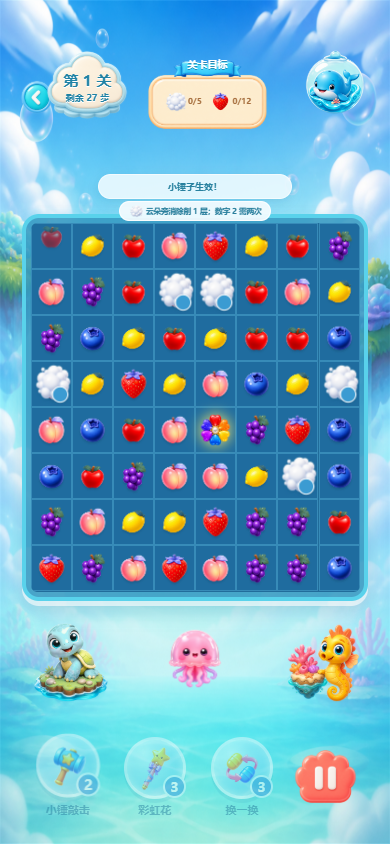
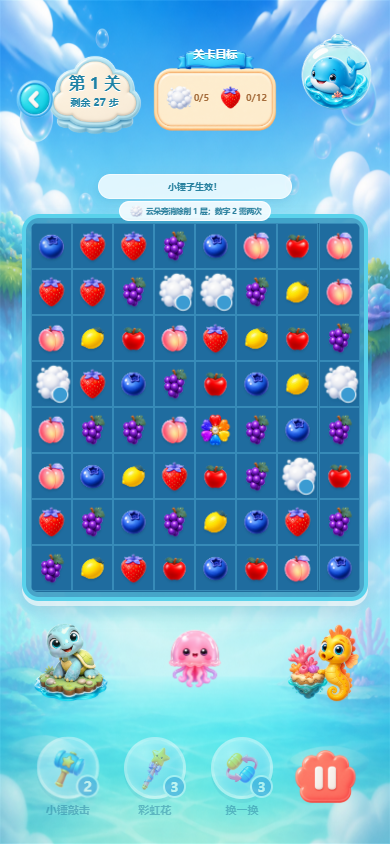
Polish special matches and game feedback

diff --git a/src/prototype.css b/src/prototype.css
@@ -2,20 +2,24 @@
 .native-scroll { display: grid; width: 100%; min-height: 100dvh; place-items: center; overflow: hidden; background: #dff9ff; }
 .native-scroll > main { flex: none; }
 .garden-game { position: relative; width: min(100vw, 46.15dvh, 520px); height: min(100dvh, 922px); min-height: 0; aspect-ratio: 852 / 1846; overflow: hidden; isolation: isolate; font-family: "Microsoft YaHei", Roboto, sans-serif; color: #267e9e; background: #dff9ff; user-select: none; }
-.scene-background { position: absolute; inset: 0; width: 100%; height: 100%; object-fit: fill; pointer-events: none; }.game-hud { position: absolute; z-index: 12; top: 4%; left: 4%; right: 4%; height: 16%; pointer-events: auto; }.hud-back { position: absolute; left: 0; top: 32%; width: 42px; padding: 0; border: 0; background: transparent; }.hud-back img { display: block; width: 100%; }.hud-level-card { position: absolute; left: 8%; top: 6%; width: 24%; height: auto; }.hud-level-copy { position: absolute; left: 10%; top: 29%; display: grid; justify-items: center; gap: 3px; width: 20%; color: #1f82a5; text-shadow: 0 1px #fff; }.hud-level-copy strong { font: 900 15px/1 "Arial Rounded MT Bold", "Microsoft YaHei"; }.hud-level-copy span { font-size: 9px; font-weight: 800; }.hud-mission { position: absolute; left: 34%; top: 12%; width: 39%; height: 70%; }.hud-mission-card { position: absolute; inset: 11% 0 0; width: 100%; height: 89%; }.hud-mission-ribbon { position: absolute; top: 0; left: 20%; width: 60%; }.hud-mission b { position: absolute; top: 7%; left: 0; right: 0; text-align: center; color: #fff; font-size: 10px; text-shadow: 0 1px rgba(24,114,155,.7); }.live-targets { position: absolute; inset: 42% 9% auto; display: flex; justify-content: center; gap: 7px; color: #a56d3c; font-size: 8px; font-weight: 900; }.live-targets span { display: flex; align-items: center; gap: 1px; }.live-targets img { width: 23px; height: 23px; object-fit: contain; }.hud-whale { position: absolute; right: 0; top: 7%; width: 22%; }
+.scene-background { position: absolute; inset: 0; width: 100%; height: 100%; object-fit: fill; pointer-events: none; }.game-hud { position: absolute; z-index: 12; top: 3.1%; left: 2.5%; right: 2.5%; height: 17%; pointer-events: auto; }.hud-back { position: absolute; left: 0; top: 34%; z-index: 5; width: 50px; padding: 0; border: 0; background: transparent; transition: transform .14s ease; }.hud-back:active { transform: scale(.92); }.hud-back img { display: block; width: 100%; }.hud-level-card { position: absolute; left: 9.5%; top: 13%; width: 27%; height: auto; }.hud-level-copy { position: absolute; left: 11.4%; top: 34%; display: grid; justify-items: center; gap: 4px; width: 23%; color: #1f82a5; text-shadow: 0 1px #fff; }.hud-level-copy strong { font: 900 16px/1 "Arial Rounded MT Bold", "Microsoft YaHei"; }.hud-level-copy span { font-size: 10px; font-weight: 800; }.hud-mission { position: absolute; left: 36%; top: 9%; width: 39%; height: 76%; }.hud-mission-card { position: absolute; inset: 11% 0 0; width: 100%; height: 89%; }.hud-mission-ribbon { position: absolute; top: 0; left: 17%; width: 66%; }.hud-mission b { position: absolute; top: 6%; left: 0; right: 0; text-align: center; color: #fff; font-size: 11px; text-shadow: 0 1px rgba(24,114,155,.7); }.live-targets { position: absolute; inset: 40% 6% auto; display: flex; justify-content: center; gap: 7px; color: #a56d3c; font-size: 9px; font-weight: 900; }.live-targets span { display: flex; align-items: center; gap: 1px; white-space: nowrap; }.live-targets img { width: 29px; height: 29px; object-fit: contain; }.hud-whale { position: absolute; right: -1%; top: 1%; width: 26%; animation: hud-whale-float 3.4s ease-in-out infinite; }
 .game-guidance { position: absolute; z-index: 18; top: 20.65%; left: 10%; right: 10%; display: grid; justify-items: center; gap: 2px; pointer-events: none; }.game-message { position: relative; margin: 0; padding: 5px 12px; min-width: 62%; min-height: 22px; border: 1px solid rgba(255,255,255,.72); border-radius: 999px; background: rgba(241,252,255,.91); box-shadow: 0 3px 10px rgba(21,111,153,.16); text-align: center; font-size: 9px; font-weight: 900; color: #237d9b; opacity: .96; transition: opacity .16s ease, transform .2s ease; }.garden-game[data-phase="idle"] .game-message { opacity: .9; }.booster-hint { position: absolute; z-index: 24; left: 10%; right: 10%; bottom: 14%; padding: 8px 10px; border: 2px solid rgba(255,255,255,.82); border-radius: 999px; background: rgba(43,148,189,.94); color: #fff; text-align: center; font-size: 10px; font-weight: 900; box-shadow: 0 4px 10px rgba(27,112,150,.25); animation: hint-pop .18s ease-out; pointer-events: none; }
 .foam-tip { position: relative; display: flex; align-items: center; justify-content: center; gap: 3px; padding: 2px 9px; border: 1px solid rgba(255,255,255,.78); border-radius: 999px; background: rgba(244,252,255,.93); color: #287e9c; font-size: 7.5px; font-weight: 900; text-align: center; }.foam-tip img { width: 14px; height: 14px; object-fit: contain; }
 .chain-badge { position: absolute; z-index: 26; top: 44%; left: 50%; transform: translate(-50%, -50%); padding: 10px 18px; border: 3px solid rgba(255,255,255,.92); border-radius: 999px; background: rgba(255,179,67,.95); box-shadow: 0 7px 18px rgba(89,75,19,.28); color: #fff; font: 900 19px/1 "Arial Rounded MT Bold", "Microsoft YaHei"; text-shadow: 0 2px 2px rgba(159,88,18,.28); animation: chain-pop .5s cubic-bezier(.16,.84,.2,1) both; pointer-events: none; }
 .board-frame { position: absolute; z-index: 3; left: 5.5%; top: 25.4%; width: 89%; height: 45.8%; padding: 5px; border: 4px solid #59d2eb; border-radius: 17px; background: rgba(51,153,193,.86); box-shadow: 0 5px 0 rgba(255,255,255,.6), 0 11px 16px rgba(33,126,163,.25); overflow: hidden; }
 .game-board { display: grid; width: 100%; height: 100%; grid-template-columns: repeat(8, 1fr); grid-template-rows: repeat(8, 1fr); overflow: hidden; border-radius: 2%; background: #216d9b; touch-action: none; contain: layout paint; }
 .game-board.is-shaking { animation: board-shake .26s ease both; }
-.tile { position: relative; min-width: 0; min-height: 0; padding: 1px; border: 1px solid rgba(104,200,232,.34); background: rgba(31,108,159,.98); transform: translate3d(var(--drag-x, 0), var(--drag-y, 0), 0); transition: transform .18s cubic-bezier(.2,.85,.2,1), opacity .16s ease, filter .15s ease; will-change: transform; }.tile > img { display: block; width: 100%; height: 100%; object-fit: contain; filter: drop-shadow(0 2px 1px rgba(11,60,100,.26)); animation: tile-in .3s cubic-bezier(.2,.8,.2,1); pointer-events: none; }.tile.is-selected { z-index: 5; outline: 3px solid #fff4a8; outline-offset: -3px; transform: scale(1.06); }.tile.is-dragging { z-index: 7; outline: 3px solid #fff4a8; outline-offset: -3px; transition: none; filter: brightness(1.08); }.tile.is-selected > img, .tile.is-dragging > img { filter: drop-shadow(0 0 6px rgba(255,234,108,.9)); }.tile.is-clearing { z-index: 9; pointer-events: none; background: radial-gradient(circle, #fff8a9 0 14%, #ffcb5c 28%, transparent 58%); animation: clear-flash .23s ease-out both; }.tile.is-clearing > img { animation: fruit-pop .23s cubic-bezier(.1,.85,.2,1) both; }.tile:disabled { cursor: wait; }.garden-game[data-phase="fall"] .tile > img { animation: tile-fall .28s cubic-bezier(.1,.72,.22,1); }.garden-game[data-phase="shuffle"] .tile { animation: tile-shuffle .48s cubic-bezier(.2,.78,.2,1); animation-delay: calc((var(--tile-row) + var(--tile-col)) * 10ms); }.cloud-layer { position: absolute; z-index: 4; inset: 2%; display: grid; place-items: center; pointer-events: none; animation: cloud-drift 2.6s ease-in-out infinite; }.cloud-layer img { width: 100% !important; height: 100% !important; filter: drop-shadow(0 2px 2px rgba(13,86,138,.34)) !important; animation: none !important; }.cloud-layer em { position: absolute; right: 6%; bottom: 4%; display: grid; width: 16px; height: 16px; place-items: center; border: 1px solid #fff; border-radius: 50%; background: #3b9bd2; color: #fff; font: 900 11px/1 Arial; font-style: normal; box-shadow: 0 1px 3px rgba(9,70,110,.35); }.cloud-layer-2 { filter: brightness(.91) saturate(.92); }.cloud-layer-2::after { position: absolute; top: 17%; left: 13%; width: 42%; height: 34%; content: ""; border-radius: 50%; background: rgba(255,255,255,.28); }.special-flower > img { filter: drop-shadow(0 0 7px rgba(255,238,107,.96)); }
+.tile { position: relative; min-width: 0; min-height: 0; padding: 1px; border: 1px solid rgba(104,200,232,.34); background: rgba(31,108,159,.98); transform: translate3d(calc(var(--drag-x, 0px) + var(--swap-x, 0%)), calc(var(--drag-y, 0px) + var(--swap-y, 0%)), 0); transition: transform .19s cubic-bezier(.22,.82,.22,1), opacity .18s ease, filter .15s ease; will-change: transform, opacity; }.tile > img.fruit-art { display: block; width: 100%; height: 100%; object-fit: contain; filter: drop-shadow(0 2px 1px rgba(11,60,100,.26)); animation: tile-in .3s cubic-bezier(.2,.8,.2,1); pointer-events: none; }.tile.is-swapping { z-index: 8; filter: brightness(1.08) saturate(1.08); }.tile.is-selected { z-index: 5; outline: 3px solid #fff4a8; outline-offset: -3px; transform: scale(1.06); }.tile.is-dragging { z-index: 7; outline: 3px solid #fff4a8; outline-offset: -3px; transition: none; filter: brightness(1.08); }.tile.is-selected > img, .tile.is-dragging > img { filter: drop-shadow(0 0 6px rgba(255,234,108,.9)); }.tile.is-clearing { z-index: 9; pointer-events: none; animation: clear-flash .34s ease-out both; }.tile.is-clearing > img.fruit-art { animation: fruit-pop .34s cubic-bezier(.15,.82,.22,1) both; }.tile:disabled { cursor: wait; }.garden-game[data-phase="fall"] .tile > img.fruit-art { animation: tile-fall .31s cubic-bezier(.12,.72,.22,1); animation-delay: calc((7 - var(--tile-row)) * 8ms); }.garden-game[data-phase="shuffle"] .tile { animation: tile-shuffle .48s cubic-bezier(.2,.78,.2,1); animation-delay: calc((var(--tile-row) + var(--tile-col)) * 10ms); }.special-overlay { position: absolute; z-index: 2; inset: 2%; width: 96%; height: 96%; object-fit: contain; pointer-events: none; filter: drop-shadow(0 0 4px rgba(255,236,127,.9)); animation: special-idle 1.6s ease-in-out infinite; }.special-overlay-burst { inset: -2%; width: 104%; height: 104%; }.tile.is-special-creating .special-overlay, .tile.is-special-creating > img.fruit-art { animation: special-create .5s cubic-bezier(.18,.84,.18,1) both; }.clear-fragments { position: absolute; z-index: 7; inset: 0; pointer-events: none; }.clear-fragments img { position: absolute; left: 32%; top: 32%; width: 36%; height: 36%; object-fit: contain; animation: clear-fragment .38s cubic-bezier(.2,.72,.22,1) both; }.clear-fragments img:nth-child(1) { --fx: -72%; --fy: -68%; --fr: -24deg; }.clear-fragments img:nth-child(2) { --fx: 78%; --fy: -58%; --fr: 20deg; }.clear-fragments img:nth-child(3) { --fx: -68%; --fy: 75%; --fr: 18deg; }.clear-fragments img:nth-child(4) { --fx: 74%; --fy: 70%; --fr: -20deg; }.cloud-layer { position: absolute; z-index: 4; inset: 2%; display: grid; place-items: center; pointer-events: none; animation: cloud-drift 2.6s ease-in-out infinite; }.cloud-layer img { width: 100% !important; height: 100% !important; filter: drop-shadow(0 2px 2px rgba(13,86,138,.34)) !important; animation: none !important; }.cloud-layer em { position: absolute; right: 6%; bottom: 4%; display: grid; width: 16px; height: 16px; place-items: center; border: 1px solid #fff; border-radius: 50%; background: #3b9bd2; color: #fff; font: 900 11px/1 Arial; font-style: normal; box-shadow: 0 1px 3px rgba(9,70,110,.35); }.cloud-layer-2 { filter: brightness(.91) saturate(.92); }.cloud-layer-2::after { position: absolute; top: 17%; left: 13%; width: 42%; height: 34%; content: ""; border-radius: 50%; background: rgba(255,255,255,.28); }.special-flower > img { filter: drop-shadow(0 0 7px rgba(255,238,107,.96)); animation: special-idle 1.5s ease-in-out infinite; }
 .ocean-friends { position: absolute; z-index: 2; top: 72.5%; left: 5%; right: 5%; height: 12%; pointer-events: none; }.ocean-friends img { position: absolute; object-fit: contain; }.friend-turtle { left: 1%; bottom: 4%; width: 27%; }.friend-jelly { left: 39%; top: 8%; width: 22%; }.friend-seahorse { right: 1%; bottom: 5%; width: 25%; }.booster-dock { position: absolute; z-index: 5; left: 7%; right: 7%; bottom: 2.5%; height: 11%; display: grid; grid-template-columns: repeat(3, 1fr) 22%; gap: 2%; }.booster { padding: 0; border: 0; background: transparent; color: #277e9e; text-align: center; font-weight: 900; transition: transform .12s ease, opacity .12s ease; }.booster:active:not(:disabled) { transform: scale(.94); }.booster:disabled { opacity: .48; cursor: not-allowed; }.booster > span { position: relative; display: grid; width: 62px; height: 62px; margin: auto; place-items: center; border: 3px solid rgba(255,255,255,.86); border-radius: 50%; background: radial-gradient(circle at 30% 23%, #e9ffff, #70d5f1 62%, #42b9db); box-shadow: 0 4px 0 rgba(35,137,177,.23), inset 0 0 10px #ecffff; transition: transform .2s cubic-bezier(.2,.85,.2,1); }.booster.is-active > span { outline: 3px solid #fff5a3; transform: translateY(-4px) scale(1.05); }.booster img { width: 53px; height: 53px; object-fit: contain; }.booster b { position: absolute; right: -3px; bottom: -2px; display: grid; width: 23px; height: 23px; place-items: center; border: 2px solid #d9f6ff; border-radius: 50%; background: #3094dd; color: #fff; font-size: 13px; }.booster small { display: block; margin-top: 5px; font: 800 11px/1 "Microsoft YaHei"; white-space: nowrap; }.pause-button { display: grid; place-items: center; padding: 0; border: 0; background: transparent; transition: transform .12s ease; }.pause-button:active { transform: scale(.94); }.pause-button img { width: 75px; max-width: 100%; }
 .modal-backdrop { position: absolute; z-index: 30; inset: 0; display: grid; place-items: center; padding: 8%; background: rgba(17,104,137,.46); backdrop-filter: blur(3px); }.modal-card, .result-card { width: min(300px, 92%); padding: 23px 20px; border: 4px solid rgba(255,255,255,.86); border-radius: 28px; background: #fff9e6; box-shadow: 0 14px 35px rgba(11,86,119,.34); text-align: center; color: #267e9e; }.modal-card h2, .result-card h2 { margin: 0 0 9px; font: 700 26px "Arial Rounded MT Bold", "Microsoft YaHei"; }.modal-card p, .result-card p { font-size: 14px; font-weight: 700; }.modal-card button, .result-card button { margin: 5px; padding: 9px 13px; border: 0; border-radius: 14px; background: #5ac8df; color: white; font-weight: 900; box-shadow: inset 0 -3px rgba(18,132,169,.18); }.modal-card .modal-close { display: block; margin: 15px auto 0; background: #f99a75; }.level-map { display: grid; grid-template-columns: repeat(5, 1fr); gap: 6px; margin-top: 14px; }.level-map button { margin: 0; padding: 8px 1px; border-radius: 12px; font-size: 12px; }.level-map button:disabled { opacity: .38; }.level-map button.current { outline: 2px solid #ffe576; background: #f99a75; }.result-bubble { display: inline-block; margin-top: -49px; padding: 10px 17px; border: 3px solid #fff; border-radius: 999px; background: #8eddf0; color: white; font-weight: 900; }.result-stars { color: #f8bd4e; font-size: 30px !important; letter-spacing: 4px; }
 .level-map-screen { position: relative; width: min(100vw, 46.15dvh, 520px); height: min(100dvh, 922px); min-height: 0; aspect-ratio: 852 / 1846; overflow: hidden; background: linear-gradient(#91e4f5 0%, #3dcae9 28%, #1cb9de 100%); font-family: "Microsoft YaHei", Roboto, sans-serif; isolation: isolate; }.level-map-screen::before, .level-map-screen::after { position: absolute; z-index: 0; content: ""; border-radius: 50%; filter: blur(4px); opacity: .72; pointer-events: none; }.level-map-screen::before { width: 76%; height: 12%; left: -23%; top: 25%; background: #e8fbff; }.level-map-screen::after { width: 90%; height: 15%; right: -30%; bottom: 5%; background: #dffaff; }.map-scenery { position: absolute; z-index: 1; inset: 0; overflow: hidden; pointer-events: none; }.map-scenery img { position: absolute; object-fit: contain; }.map-path-art { z-index: 1; left: 26%; top: 23%; width: 49%; height: 67%; opacity: .98; }.map-orchard { z-index: 2; width: 45%; }.map-orchard-apple-a { left: -18%; top: 27%; }.map-orchard-blueberry-a { right: -18%; top: 48%; }.map-orchard-apple-b { right: -20%; bottom: 7%; }.map-orchard-blueberry-b { left: -18%; bottom: 6%; }.map-whale { z-index: 2; top: 3%; right: -1%; width: 34%; animation: map-bob 3.8s ease-in-out infinite; }.map-turtle { z-index: 2; bottom: 12%; left: 7%; width: 25%; animation: map-bob 4.4s ease-in-out infinite reverse; }.map-seahorse { z-index: 2; right: 4%; bottom: 10%; width: 23%; animation: map-bob 3.5s ease-in-out .7s infinite; }.map-flower { z-index: 3; width: 10%; animation: map-twinkle 2.4s ease-in-out infinite; }.map-flower-a { left: 12%; top: 57%; }.map-flower-b { right: 11%; top: 33%; animation-delay: .8s; }.map-topbar { position: absolute; z-index: 8; inset: 5% 5% auto; display: flex; justify-content: space-between; align-items: center; color: #fff; text-shadow: 0 2px 4px rgba(17,118,160,.5); }.map-topbar div { display: grid; gap: 3px; }.map-topbar b { font: 900 24px/1 "Arial Rounded MT Bold", "Microsoft YaHei"; }.map-topbar small { font-size: 10px; font-weight: 700; }.map-topbar button, .map-actions button, .map-footer button { border: 3px solid rgba(255,255,255,.82); color: #fff; font-weight: 900; box-shadow: inset 0 -4px rgba(25,117,160,.22), 0 4px 0 rgba(25,100,136,.2); }.map-topbar button { padding: 8px 10px; border-radius: 16px; background: #f39c77; font-size: 11px; }.map-actions { position: absolute; z-index: 8; top: 12.2%; left: 5%; right: 5%; display: grid; grid-template-columns: repeat(3, 1fr); gap: 7px; }.map-actions button { min-height: 38px; padding: 4px; border-radius: 13px; background: rgba(91,199,222,.94); font-size: 9px; }.map-actions span, .map-actions b { display: block; }.map-actions b { color: #ffea7a; font-size: 13px; }.map-levels { position: absolute; z-index: 6; inset: 24% 8% 11%; }.map-level { position: absolute; display: grid; width: 13%; aspect-ratio: 1; place-items: center; padding: 0; border: 3px solid rgba(255,255,255,.86); border-radius: 50%; background: #a8cad7; color: #fff; font: 900 16px/1 "Arial Rounded MT Bold"; box-shadow: inset 0 -6px rgba(42,116,148,.24), 0 4px 0 rgba(38,110,141,.26); transition: transform .15s ease; }.map-level.unlocked { background: #f9ae50; }.map-level.finished { background: #81d1e8; }.map-level:not(:disabled):hover { transform: scale(1.09); }.map-level i { position: absolute; bottom: -9px; right: -5px; display: grid; width: 20px; height: 20px; place-items: center; border: 2px solid white; border-radius: 50%; background: #55a9d3; color: #fff2a6; font-size: 10px; font-style: normal; }.map-level i svg { width: 12px; height: 12px; fill: currentColor; stroke: currentColor; stroke-width: 2; }.map-level:nth-child(1) { left: 44%; top: 73%; }.map-level:nth-child(2) { left: 29%; top: 68%; }.map-level:nth-child(3) { left: 50%; top: 64%; }.map-level:nth-child(4) { left: 61%; top: 58%; }.map-level:nth-child(5) { left: 44%; top: 54%; }.map-level:nth-child(6) { left: 28%; top: 48%; }.map-level:nth-child(7) { left: 43%; top: 44%; }.map-level:nth-child(8) { left: 61%; top: 40%; }.map-level:nth-child(9) { left: 47%; top: 35%; }.map-level:nth-child(10) { left: 33%; top: 31%; }.map-level:nth-child(11) { left: 47%; top: 27%; }.map-level:nth-child(12) { left: 62%; top: 23%; }.map-level:nth-child(13) { left: 47%; top: 19%; }.map-level:nth-child(14) { left: 35%; top: 15%; }.map-level:nth-child(15) { left: 48%; top: 11%; }.map-level:nth-child(16) { left: 62%; top: 7%; }.map-level:nth-child(17) { left: 46%; top: 3%; }.map-level:nth-child(18) { left: 31%; top: -1%; }.map-level:nth-child(19) { left: 44%; top: -5%; }.map-level:nth-child(20) { left: 29%; top: -10%; }.map-notice { position: absolute; z-index: 12; top: 19%; left: 12%; right: 12%; margin: 0; padding: 7px 10px; border: 2px solid rgba(255,255,255,.85); border-radius: 999px; background: rgba(35,137,177,.88); box-shadow: 0 4px 10px rgba(27,112,150,.25); color: #fff; text-align: center; font-size: 10px; font-weight: 900; animation: hint-pop .18s ease-out; }.map-footer { position: absolute; z-index: 10; right: 5%; bottom: 3.2%; left: 5%; display: flex; align-items: center; justify-content: space-between; padding: 8px 9px 8px 13px; border: 2px solid rgba(255,255,255,.75); border-radius: 20px; background: rgba(255,250,232,.9); color: #257b9b; font-size: 10px; font-weight: 900; }.map-footer button { padding: 8px 12px; border-radius: 13px; background: #f38f72; font-size: 11px; }
 @keyframes tile-in { from { transform: translateY(-38%) scale(.85); opacity: .25; } 58% { transform: translateY(4%) scale(1.04); opacity: 1; } to { transform: translateY(0) scale(1); opacity: 1; } }
-@keyframes fruit-pop { 0% { transform: scale(1); opacity: 1; } 45% { transform: scale(1.25) rotate(7deg); opacity: 1; } 100% { transform: scale(.12) rotate(-12deg); opacity: 0; } }
-@keyframes clear-flash { 0% { box-shadow: inset 0 0 0 rgba(255,255,255,0); } 45% { box-shadow: inset 0 0 22px 11px rgba(255,248,167,.9); } 100% { box-shadow: inset 0 0 0 rgba(255,255,255,0); } }
+@keyframes fruit-pop { 0% { transform: scale(1); opacity: 1; filter: brightness(1); } 18% { transform: scale(.88,.78); opacity: 1; } 52% { transform: scale(1.28,1.2) rotate(6deg); opacity: 1; filter: brightness(1.35); } 100% { transform: scale(.18) rotate(-16deg); opacity: 0; filter: brightness(1.6); } }
+@keyframes clear-flash { 0% { filter: brightness(1); } 45% { filter: brightness(1.5) saturate(1.25); } 100% { filter: brightness(1); } }
+@keyframes clear-fragment { 0% { transform: translate(0,0) scale(.9); opacity: .9; } 100% { transform: translate(var(--fx),var(--fy)) rotate(var(--fr)) scale(.15); opacity: 0; } }
+@keyframes special-create { 0% { transform: scale(.25) rotate(-22deg); opacity: 0; } 55% { transform: scale(1.28) rotate(5deg); opacity: 1; } 76% { transform: scale(.92) rotate(-2deg); } 100% { transform: scale(1) rotate(0); opacity: 1; } }
+@keyframes special-idle { 0%,100% { transform: scale(.96); filter: brightness(1) drop-shadow(0 0 3px rgba(255,236,127,.7)); } 50% { transform: scale(1.06); filter: brightness(1.18) drop-shadow(0 0 7px rgba(255,236,127,.98)); } }
+@keyframes hud-whale-float { 0%,100% { transform: translateY(0) rotate(-1deg); } 50% { transform: translateY(-4px) rotate(1deg); } }
 @keyframes hint-pop { from { opacity: 0; transform: translateY(8px) scale(.96); } to { opacity: 1; transform: translateY(0) scale(1); } }
 @keyframes map-bob { 0%, 100% { transform: translateY(0) rotate(-1deg); } 50% { transform: translateY(-8px) rotate(1deg); } }
 @keyframes map-twinkle { 0%, 100% { transform: scale(.92) rotate(-8deg); filter: brightness(1); } 50% { transform: scale(1.09) rotate(8deg); filter: brightness(1.18); } }

diff --git a/src/Prototype.tsx b/src/Prototype.tsx
@@ -11,6 +11,7 @@ import {
   isAdjacent,
   key,
   makeTile,
+  planMatches,
   reshuffleBoard,
   samePos,
   swapTiles,
@@ -21,6 +22,8 @@ import {
 } from "./gameEngine";
 
 type SavedGame = { unlocked: number; boosters: { hammer: number; flower: number; swap: number }; best: Record<number, number> };
+type SwapMotion = { a: Pos; b: Pos; returning?: boolean };
+type SpecialMoment = { key: string; special: Special } | null;
 
 const FRUIT_LABEL: Record<Fruit, string> = {
   blueberry: "蓝莓", strawberry: "草莓", peach: "蜜桃", grape: "葡萄", lemon: "柠檬", apple: "苹果",
@@ -60,13 +63,18 @@ function cloudNeighbors(board: Tile[][], target: Set<string>) {
   return hits;
 }
 
-function addSpecialEffect(board: Tile[][], pos: Pos, target: Set<string>) {
+function addSpecialEffect(board: Tile[][], pos: Pos, target: Set<string>, colorFruit?: Fruit) {
   const tile = board[pos.row][pos.col];
   if (!tile.special) return;
   if (tile.special === "row") for (let col = 0; col < BOARD_SIZE; col += 1) target.add(key({ row: pos.row, col }));
   if (tile.special === "column") for (let row = 0; row < BOARD_SIZE; row += 1) target.add(key({ row, col: pos.col }));
+  if (tile.special === "burst") {
+    for (let row = pos.row - 1; row <= pos.row + 1; row += 1) for (let col = pos.col - 1; col <= pos.col + 1; col += 1) {
+      if (inside({ row, col })) target.add(key({ row, col }));
+    }
+  }
   if (tile.special === "flower") {
-    const chosen = tile.fruit;
+    const chosen = colorFruit ?? tile.fruit;
     for (let row = 0; row < BOARD_SIZE; row += 1) for (let col = 0; col < BOARD_SIZE; col += 1) {
       if (board[row][col].fruit === chosen) target.add(key({ row, col }));
     }
@@ -110,6 +118,8 @@ export default function Prototype() {
   const [dragging, setDragging] = useState<Pos | null>(null);
   const [dragVector, setDragVector] = useState({ x: 0, y: 0 });
   const [clearing, setClearing] = useState<Set<string>>(() => new Set());
+  const [swapMotion, setSwapMotion] = useState<SwapMotion | null>(null);
+  const [specialMoment, setSpecialMoment] = useState<SpecialMoment>(null);
   const [phase, setPhase] = useState<"idle" | "swap" | "clear" | "fall" | "shuffle">("idle");
   const [chainDisplay, setChainDisplay] = useState(0);
   const [shakeBoard, setShakeBoard] = useState(false);
@@ -121,7 +131,7 @@ export default function Prototype() {
   const resetLevel = useCallback((nextIndex = levelIndex) => {
     const next = LEVELS[nextIndex];
     setBoard(createPlayableBoard(next.targets[1].count, next.id)); setMoves(next.moves); setScore(0); setSelected(null); setBusy(false); setBooster(null);
-    setProgress({ strawberry: 0, foam: 0 }); setMessage("滑动相邻水果，完成三连消除"); setShowResult(null); setPhase("idle"); setChainDisplay(0);
+    setProgress({ strawberry: 0, foam: 0 }); setMessage("滑动相邻水果，完成三连消除"); setShowResult(null); setPhase("idle"); setChainDisplay(0); setSwapMotion(null); setSpecialMoment(null);
   }, [levelIndex]);
 
   const openLevel = (index: number) => {
@@ -161,45 +171,41 @@ export default function Prototype() {
     let totalScore = 0;
     let gainedStrawberry = 0; let gainedFoam = 0;
     while (true) {
-      const groups = findMatches(next);
-      if (!groups.length) break;
+      const plan = planMatches(next, preferred);
+      if (!plan.clear.size) break;
       chain += 1;
       setChainDisplay(chain);
-      const toClear = new Set<string>();
-      const specials: { pos: Pos; special: Special }[] = [];
-      groups.forEach((group) => {
-        group.forEach((pos) => toClear.add(key(pos)));
-        const origin = preferred && group.some((pos) => samePos(preferred ?? null, pos)) ? preferred : group[Math.floor(group.length / 2)];
-        if (group.length >= 5) specials.push({ pos: origin, special: "flower" });
-        else if (group.length === 4) specials.push({ pos: origin, special: group[0].row === group[1].row ? "row" : "column" });
-      });
+      const toClear = new Set<string>(plan.clear);
       [...toClear].forEach((value) => { const [row, col] = value.split(":").map(Number); addSpecialEffect(next, { row, col }, toClear); });
       cloudNeighbors(next, toClear).forEach((value) => toClear.add(value));
-      const keep = new Map(specials.map((item) => [key(item.pos), item.special]));
+      const keep = new Map(plan.spawns.map((item) => [key(item.pos), item.special]));
       const cloudDamaged = new Set<string>();
       toClear.forEach((value) => {
         const [row, col] = value.split(":").map(Number); const current = next[row][col];
-        if (keep.has(value)) { next[row][col] = { ...current, special: keep.get(value) }; return; }
         if (current.foamLayers) {
           gainedFoam += 1;
           next[row][col] = current.foamLayers > 1 ? { ...current, foamLayers: current.foamLayers - 1 } : { ...current, foamLayers: undefined };
           cloudDamaged.add(value);
+          keep.delete(value);
           return;
         }
+        if (keep.has(value)) { next[row][col] = { ...current, special: keep.get(value) }; return; }
         if (current.fruit === "strawberry") gainedStrawberry += 1;
       });
       totalScore += toClear.size * 55 * chain;
       const cleared = new Set([...toClear].filter((value) => !keep.has(value) && !cloudDamaged.has(value)));
       setPhase("clear");
       setClearing(cleared);
+      if (plan.spawns.length) setSpecialMoment({ key: key(plan.spawns[0].pos), special: plan.spawns[0].special });
       if (audioEnabled.current) playTone("match");
       pulseHaptic(chain > 1 ? [15, 25, 15] : 18);
-      await new Promise((resolve) => window.setTimeout(resolve, 210));
+      await new Promise((resolve) => window.setTimeout(resolve, 330));
       next = collapseBoard(next, cleared);
       setPhase("fall");
       setBoard(cloneBoard(next));
       setClearing(new Set());
-      await new Promise((resolve) => window.setTimeout(resolve, 230));
+      await new Promise((resolve) => window.setTimeout(resolve, 310));
+      setSpecialMoment(null);
       preferred = undefined;
     }
     if (!hasPossibleMove(next)) {
@@ -223,16 +229,29 @@ export default function Prototype() {
   const swapAndResolve = useCallback(async (a: Pos, b: Pos) => {
     if (busy || !isAdjacent(a, b)) return;
     setBusy(true); setSelected(null); setPhase("swap");
-    let next = swapTiles(board, a, b); setBoard(next);
-    await new Promise((resolve) => window.setTimeout(resolve, 150));
+    setSwapMotion({ a, b });
+    if (audioEnabled.current) playTone("move");
+    pulseHaptic(10);
+    await new Promise((resolve) => window.setTimeout(resolve, 190));
+    let next = swapTiles(board, a, b);
     const directSpecial = next[a.row][a.col].special || next[b.row][b.col].special;
     if (!directSpecial && !findMatches(next).length) {
-      setMessage("这一步不能形成三连"); setShakeBoard(true); if (audioEnabled.current) playTone("lose");
-      await new Promise((resolve) => window.setTimeout(resolve, 190)); setBoard(board); setShakeBoard(false); setPhase("idle"); setBusy(false); return;
+      setSwapMotion({ a, b, returning: true }); setMessage("这一步不能形成三连"); setShakeBoard(true); if (audioEnabled.current) playTone("lose");
+      await new Promise((resolve) => window.setTimeout(resolve, 190)); setSwapMotion(null); setShakeBoard(false); setPhase("idle"); setBusy(false); return;
     }
-    setMoves((value) => Math.max(0, value - 1)); if (audioEnabled.current) playTone("move");
+    setBoard(next); setSwapMotion(null);
+    setMoves((value) => Math.max(0, value - 1));
     if (directSpecial && !findMatches(next).length) {
-      const target = new Set<string>([key(a), key(b)]); addSpecialEffect(next, a, target); addSpecialEffect(next, b, target);
+      const target = new Set<string>([key(a), key(b)]);
+      const aTile = next[a.row][a.col]; const bTile = next[b.row][b.col];
+      if (aTile.special === "flower" && bTile.special === "flower") {
+        for (let row = 0; row < BOARD_SIZE; row += 1) for (let col = 0; col < BOARD_SIZE; col += 1) target.add(key({ row, col }));
+      } else {
+        addSpecialEffect(next, a, target, aTile.special === "flower" ? bTile.fruit : undefined);
+        addSpecialEffect(next, b, target, bTile.special === "flower" ? aTile.fruit : undefined);
+      }
+      [...target].forEach((value) => { const [row, col] = value.split(":").map(Number); addSpecialEffect(next, { row, col }, target); });
+      cloudNeighbors(next, target).forEach((value) => target.add(value));
       let foamHits = 0; let strawberryHits = 0;
       const cloudDamaged = new Set<string>();
       target.forEach((value) => {
@@ -240,11 +259,13 @@ export default function Prototype() {
         if (tile.foamLayers) { foamHits += 1; next[row][col] = tile.foamLayers > 1 ? { ...tile, foamLayers: tile.foamLayers - 1 } : { ...tile, foamLayers: undefined }; cloudDamaged.add(value); }
         else if (tile.fruit === "strawberry") strawberryHits += 1;
       });
-      setClearing(target);
-      await new Promise((resolve) => window.setTimeout(resolve, 210));
+      setPhase("clear"); setClearing(target); setSpecialMoment({ key: key(b), special: bTile.special || aTile.special || "burst" });
+      if (audioEnabled.current) playTone("match"); pulseHaptic([16, 22, 30]);
+      await new Promise((resolve) => window.setTimeout(resolve, 340));
       const removable = new Set([...target].filter((value) => !cloudDamaged.has(value)));
       next = collapseBoard(next, removable);
-      setScore((value) => value + target.size * 70); setBoard(next); setClearing(new Set());
+      setPhase("fall"); setScore((value) => value + target.size * 70); setBoard(next); setClearing(new Set()); setSpecialMoment(null);
+      await new Promise((resolve) => window.setTimeout(resolve, 280));
       registerProgress(strawberryHits, foamHits);
       setMessage(foamHits ? `魔法特效清除了 ${foamHits} 朵云朵泡沫！` : "魔法特效触发！");
       if (findMatches(next).length) next = await resolveBoard(next);
@@ -265,8 +286,8 @@ export default function Prototype() {
     setBusy(true); setPhase("clear");
     let next = cloneBoard(board);
     if (activeBooster === "swap" && selected) {
-      next = swapTiles(next, selected, pos); setBoard(next); setSelected(null); setMessage("两个水果已换位"); pulseHaptic(20);
-      await new Promise((resolve) => window.setTimeout(resolve, 180));
+      setPhase("swap"); setSwapMotion({ a: selected, b: pos }); setSelected(null); setMessage("两个水果正在换位"); pulseHaptic(20);
+      await new Promise((resolve) => window.setTimeout(resolve, 190)); next = swapTiles(next, selected, pos); setBoard(next); setSwapMotion(null);
       setBoosters((value) => ({ ...value, swap: Math.max(0, value.swap - 1) })); setBooster(null);
       if (findMatches(next).length) next = await resolveBoard(next, pos);
       else if (!hasPossibleMove(next)) { setPhase("shuffle"); next = reshuffleBoard(next); setBoard(next); }
@@ -274,7 +295,7 @@ export default function Prototype() {
     }
     if (activeBooster === "hammer") {
       const target = new Set([key(pos)]); const hitFoam = Boolean(next[pos.row][pos.col].foamLayers); setClearing(target); setMessage(hitFoam ? "小锤正在敲碎一层云朵泡沫…" : "小锤敲击中…"); if (audioEnabled.current) playTone("match");
-      await new Promise((resolve) => window.setTimeout(resolve, 230)); const tile = next[pos.row][pos.col];
+      await new Promise((resolve) => window.setTimeout(resolve, 330)); const tile = next[pos.row][pos.col];
       if (tile.foamLayers) next[pos.row][pos.col] = tile.foamLayers > 1 ? { ...tile, foamLayers: tile.foamLayers - 1 } : { ...tile, foamLayers: undefined };
       else next = collapseBoard(next, target);
       setScore((value) => value + 90); registerProgress(0, hitFoam ? 1 : 0); pulseHaptic(25);
@@ -283,7 +304,7 @@ export default function Prototype() {
       const chosen = next[pos.row][pos.col].fruit; const target = new Set<string>();
       for (let row = 0; row < BOARD_SIZE; row += 1) for (let col = 0; col < BOARD_SIZE; col += 1) if (next[row][col].fruit === chosen) target.add(key({ row, col }));
       setClearing(target); setMessage(`彩虹花正在清除全部${FRUIT_LABEL[chosen]}！`); if (audioEnabled.current) playTone("match");
-      await new Promise((resolve) => window.setTimeout(resolve, 260));
+      await new Promise((resolve) => window.setTimeout(resolve, 360));
       let foamHits = 0; let strawberryHits = 0; const removable = new Set<string>();
       for (let row = 0; row < BOARD_SIZE; row += 1) for (let col = 0; col < BOARD_SIZE; col += 1) if (target.has(key({ row, col }))) {
         const tile = next[row][col]; if (tile.foamLayers) { foamHits += 1; next[row][col] = tile.foamLayers > 1 ? { ...tile, foamLayers: tile.foamLayers - 1 } : { ...tile, foamLayers: undefined }; }
@@ -351,6 +372,13 @@ export default function Prototype() {
   const targetValues = useMemo(() => ({ strawberry: Math.min(progress.strawberry, level.targets[0].count), foam: Math.min(progress.foam, level.targets[1].count) }), [progress, level]);
   const stars = level.stars.filter((threshold) => score >= threshold).length;
 
+  const swapOffset = (pos: Pos) => {
+    if (!swapMotion || swapMotion.returning) return { x: 0, y: 0 };
+    if (samePos(swapMotion.a, pos)) return { x: (swapMotion.b.col - swapMotion.a.col) * 100, y: (swapMotion.b.row - swapMotion.a.row) * 100 };
+    if (samePos(swapMotion.b, pos)) return { x: (swapMotion.a.col - swapMotion.b.col) * 100, y: (swapMotion.a.row - swapMotion.b.row) * 100 };
+    return { x: 0, y: 0 };
+  };
+
   if (view === "map") return <LevelMap unlocked={unlocked} bestScores={bestScores} onOpenLevel={openLevel} />;
 
   return (
@@ -365,9 +393,14 @@ export default function Prototype() {
           <div className={`game-board ${busy ? "is-busy" : ""} ${shakeBoard ? "is-shaking" : ""}`} onPointerDown={onBoardPointerDown} onPointerMove={onBoardPointerMove} onPointerUp={onBoardPointerUp} onPointerCancel={onBoardPointerCancel}>
             {board.flatMap((row, rowIndex) => row.map((tile, colIndex) => {
               const pos = { row: rowIndex, col: colIndex };
-              const style = { "--tile-row": rowIndex, "--tile-col": colIndex, "--drag-x": `${dragging && samePos(dragging, pos) ? dragVector.x : 0}px`, "--drag-y": `${dragging && samePos(dragging, pos) ? dragVector.y : 0}px` } as CSSProperties;
-              return <button key={tile.id} style={style} className={`tile ${clearing.has(key(pos)) ? "is-clearing" : ""} ${selected && samePos(selected, pos) ? "is-selected" : ""} ${dragging && samePos(dragging, pos) ? "is-dragging" : ""} ${tile.special ? `special-${tile.special}` : ""}`} disabled={busy} tabIndex={selected && samePos(selected, pos) ? 0 : rowIndex === 0 && colIndex === 0 ? 0 : -1} aria-label={`${FRUIT_LABEL[tile.fruit]}，第 ${rowIndex + 1} 行第 ${colIndex + 1} 列`}>
-                <img src={`${ASSET_BASE}tiles/${tile.special === "flower" ? "rainbow-flower" : tile.fruit === "grape" ? "grape-cluster" : tile.fruit === "apple" ? "red-apple" : tile.fruit}.png`} alt="" />
+              const moving = swapOffset(pos);
+              const style = { "--tile-row": rowIndex, "--tile-col": colIndex, "--drag-x": `${dragging && samePos(dragging, pos) ? dragVector.x : 0}px`, "--drag-y": `${dragging && samePos(dragging, pos) ? dragVector.y : 0}px`, "--swap-x": `${moving.x}%`, "--swap-y": `${moving.y}%` } as CSSProperties;
+              const asset = tile.special === "flower" ? "rainbow-flower" : tile.fruit === "grape" ? "grape-cluster" : tile.fruit === "apple" ? "red-apple" : tile.fruit;
+              const isClearing = clearing.has(key(pos));
+              return <button key={tile.id} style={style} className={`tile ${isClearing ? "is-clearing" : ""} ${selected && samePos(selected, pos) ? "is-selected" : ""} ${dragging && samePos(dragging, pos) ? "is-dragging" : ""} ${moving.x || moving.y ? "is-swapping" : ""} ${specialMoment?.key === key(pos) ? "is-special-creating" : ""} ${tile.special ? `special-${tile.special}` : ""}`} disabled={busy} tabIndex={selected && samePos(selected, pos) ? 0 : rowIndex === 0 && colIndex === 0 ? 0 : -1} aria-label={`${FRUIT_LABEL[tile.fruit]}，第 ${rowIndex + 1} 行第 ${colIndex + 1} 列${tile.special ? `，${tile.special === "flower" ? "同色清除" : tile.special === "burst" ? "九宫爆炸" : "直线清除"}特效` : ""}`}>
+                <img className="fruit-art" src={`${ASSET_BASE}tiles/${asset}.png`} alt="" />
+                {tile.special && tile.special !== "flower" && <img className={`special-overlay special-overlay-${tile.special}`} src={`${ASSET_BASE}tiles/special-${tile.special}.png`} alt="" />}
+                {isClearing && <span className="clear-fragments" aria-hidden="true">{[0, 1, 2, 3].map((item) => <img key={item} src={`${ASSET_BASE}tiles/${asset}.png`} alt="" />)}</span>}
                 {tile.foamLayers && <span className={`cloud-layer cloud-layer-${tile.foamLayers}`} aria-label={`云朵障碍，还需要 ${tile.foamLayers} 次消除`}><img src={`${ASSET_BASE}tiles/foam.png`} alt="" /><em>{tile.foamLayers > 1 ? tile.foamLayers : ""}</em></span>}
               </button>;
             }))}

diff --git a/src/gameEngine.ts b/src/gameEngine.ts
@@ -1,7 +1,9 @@
 export type Fruit = "blueberry" | "strawberry" | "peach" | "grape" | "lemon" | "apple";
-export type Special = "row" | "column" | "flower";
+export type Special = "row" | "column" | "burst" | "flower";
 export type Tile = { id: number; fruit: Fruit; special?: Special; foamLayers?: number };
 export type Pos = { row: number; col: number };
+export type SpecialSpawn = { pos: Pos; special: Special };
+export type MatchPlan = { clear: Set<string>; spawns: SpecialSpawn[] };
 
 export const BOARD_SIZE = 8;
 export const FRUITS: Fruit[] = ["blueberry", "strawberry", "peach", "grape", "lemon", "apple"];
@@ -51,6 +53,41 @@ export function findMatches(board: Tile[][]): Pos[][] {
     }
   }
   return groups;
+}
+
+function groupContains(group: Pos[], pos: Pos): boolean {
+  return group.some((item) => item.row === pos.row && item.col === pos.col);
+}
+
+function preferredOrigin(group: Pos[], preferred?: Pos): Pos {
+  return preferred && groupContains(group, preferred) ? preferred : group[Math.floor(group.length / 2)];
+}
+
+/**
+ * Converts straight-line matches into the familiar match-three special tiers:
+ * 3 = clear, 4 = line clear, intersecting L/T = area burst, 5+ straight = color clear.
+ */
+export function planMatches(board: Tile[][], preferred?: Pos): MatchPlan {
+  const groups = findMatches(board);
+  const clear = new Set(groups.flat().map(key));
+  const spawns = new Map<string, SpecialSpawn>();
+
+  const horizontal = groups.filter((group) => group.length > 1 && group[0].row === group[1].row);
+  const vertical = groups.filter((group) => group.length > 1 && group[0].col === group[1].col);
+  const intersections: Pos[] = [];
+  horizontal.forEach((rowGroup) => vertical.forEach((columnGroup) => {
+    rowGroup.forEach((pos) => { if (groupContains(columnGroup, pos)) intersections.push(pos); });
+  }));
+  intersections.forEach((pos) => spawns.set(key(pos), { pos, special: "burst" }));
+
+  groups.forEach((group) => {
+    const origin = preferredOrigin(group, preferred);
+    if (group.length >= 5) spawns.set(key(origin), { pos: origin, special: "flower" });
+    else if (group.length === 4 && !intersections.some((pos) => groupContains(group, pos))) {
+      spawns.set(key(origin), { pos: origin, special: group[0].row === group[1].row ? "row" : "column" });
+    }
+  });
+  return { clear, spawns: [...spawns.values()] };
 }
 
 export function swapTiles(board: Tile[][], a: Pos, b: Pos): Tile[][] {

diff --git a/design-qa.md b/design-qa.md
@@ -22,3 +22,13 @@
 - The map path art is decorative and does not join every level node with pixel-perfect center alignment.
 
 final result: passed
+
+## 2026-08-13 interaction polish pass
+
+- Compared the updated 390 x 844 gameplay capture against the supplied gameplay reference at the same game state.
+- P1 resolved: top-left level card, center mission card, and right character now occupy separate slots with larger target icons and no overlap.
+- P1 resolved: swaps now travel before state commit and invalid swaps reverse on the same path.
+- P1 resolved: clear feedback now includes anticipation, image-fragment burst, synchronized score/haptic timing, staggered fall, and chain feedback.
+- P1 resolved: rule engine now distinguishes normal three matches, row/column four matches, L/T area bursts, and straight five color-clears.
+- P2 resolved: special row, column, and area-burst tiles use individual generated raster overlays instead of unmarked fruit art.
+- Remaining P3: animation timing is intentionally original and not a frame-for-frame copy of another commercial game's protected presentation.
